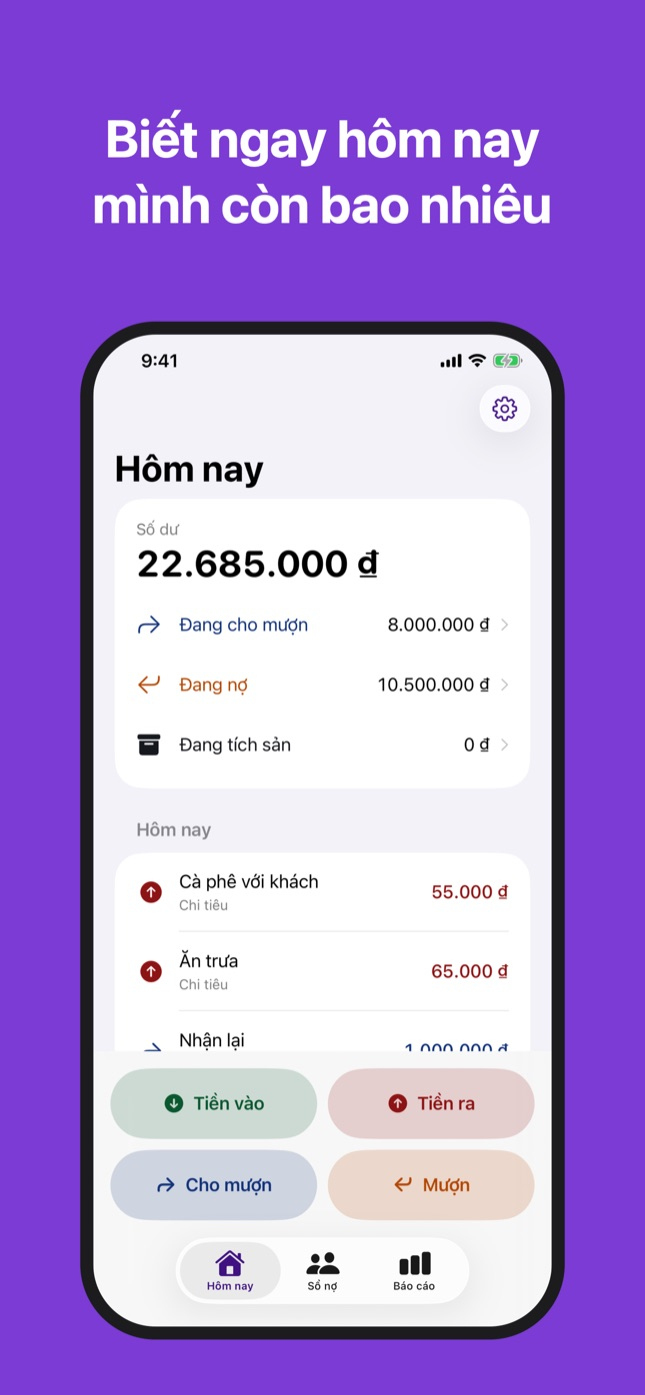
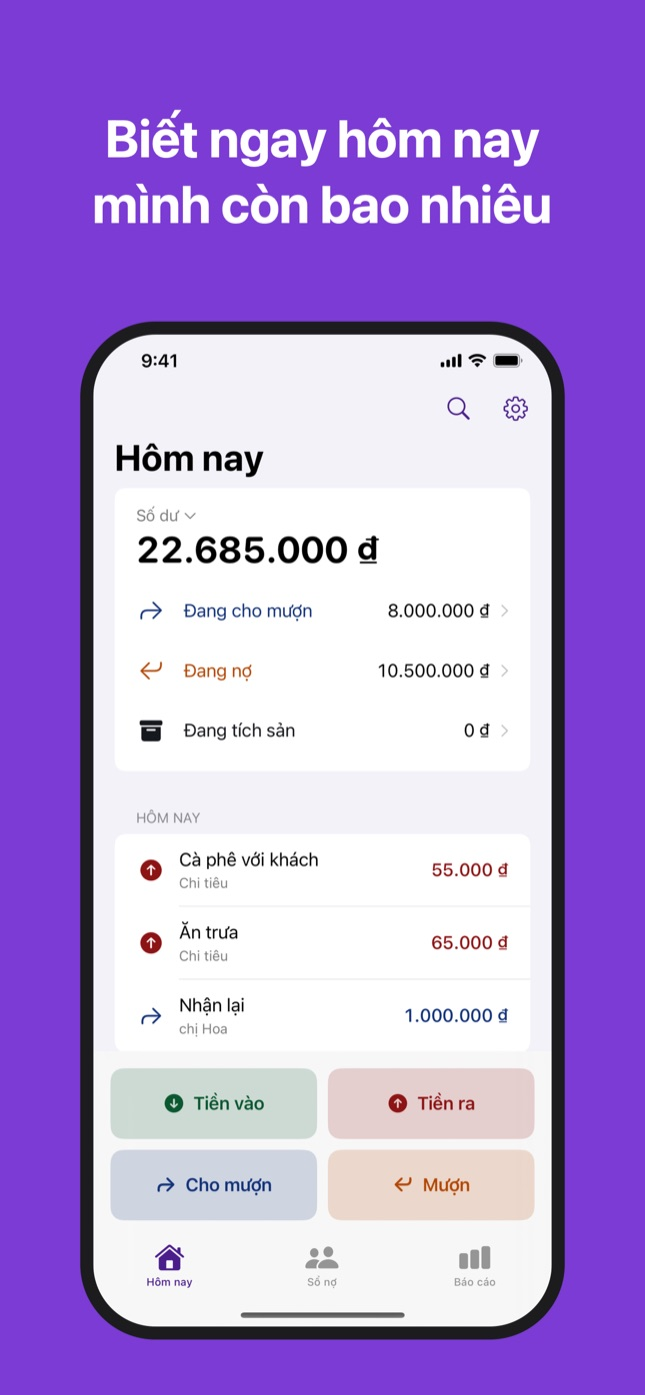
Add files via upload

diff --git a/index.html b/index.html
@@ -30,9 +30,9 @@
   </section>
 
   <section class="shots" aria-label="Ảnh màn hình">
-    <img src="assets/shot-01.jpg" alt="Ảnh màn hình ứng dụng 1" width="645" height="1398" loading="lazy">
-    <img src="assets/shot-02.jpg" alt="Ảnh màn hình ứng dụng 2" width="645" height="1398" loading="lazy">
-    <img src="assets/shot-03.jpg" alt="Ảnh màn hình ứng dụng 3" width="645" height="1398" loading="lazy">
+    <img src="assets/shot-01.jpg" alt="Ảnh màn hình ứng dụng 1" width="645" height="1395" loading="lazy">
+    <img src="assets/shot-02.jpg" alt="Ảnh màn hình ứng dụng 2" width="645" height="1395" loading="lazy">
+    <img src="assets/shot-03.jpg" alt="Ảnh màn hình ứng dụng 3" width="645" height="1395" loading="lazy">
   </section>
 
   <section class="features" aria-label="Tính năng">
@@ -51,6 +51,30 @@
     <div class="card">
       <h2>Cho mượn không phải là tiêu tiền</h2>
       <p>Tiền cho mượn không bị tính vào chi tiêu, tiền đi mượn không bị tính vào thu nhập. Vì vậy con số "tháng này tôi tiêu bao nhiêu" là con số thật.</p>
+    </div>
+    <div class="card">
+      <h2>Nhiều ví, một con số tổng</h2>
+      <p>Tiền mặt, ngân hàng, ví điện tử — tuỳ bạn đặt. Số lớn trên màn hình đầu là tổng mọi ví; chạm vào để xem từng ví. Dùng một ví thì mọi thứ y như cũ.</p>
+    </div>
+    <div class="card">
+      <h2>Chuyển ví không phải là tiêu tiền</h2>
+      <p>Rút tiền từ ngân hàng ra tiền mặt không bị tính vào Đã chi, cũng không vào Đã thu. Chỉ số dư của hai ví thay đổi.</p>
+    </div>
+    <div class="card">
+      <h2>Gõ không dấu vẫn tìm ra</h2>
+      <p>Tìm theo ghi chú, tên người hay số tiền: "banh trang" ra "Bánh tráng", "85k" ra khoản 85.000 đ. Lọc thêm theo ví, loại giao dịch và thời gian.</p>
+    </div>
+    <div class="card">
+      <h2>Danh bạ người vay mượn</h2>
+      <p>Mỗi người một dòng: đang nợ bạn bao nhiêu, bạn đang nợ họ bao nhiêu. "An", "an", "Anh An" là cùng một người? Gộp lại trong một chạm.</p>
+    </div>
+    <div class="card">
+      <h2>Lỡ tay thì hoàn tác</h2>
+      <p>Xoá, sửa một giao dịch, gộp hai người hay cất một ví — đều có năm giây để hoàn tác.</p>
+    </div>
+    <div class="card">
+      <h2>Widget màn hình chính</h2>
+      <p>Đang cho mượn bao nhiêu, đang nợ bao nhiêu — nhìn ngay trên màn hình chính, không cần mở app. Chạm vào để mở Sổ nợ.</p>
     </div>
     <div class="card">
       <h2>Dữ liệu nằm trên máy bạn</h2>
